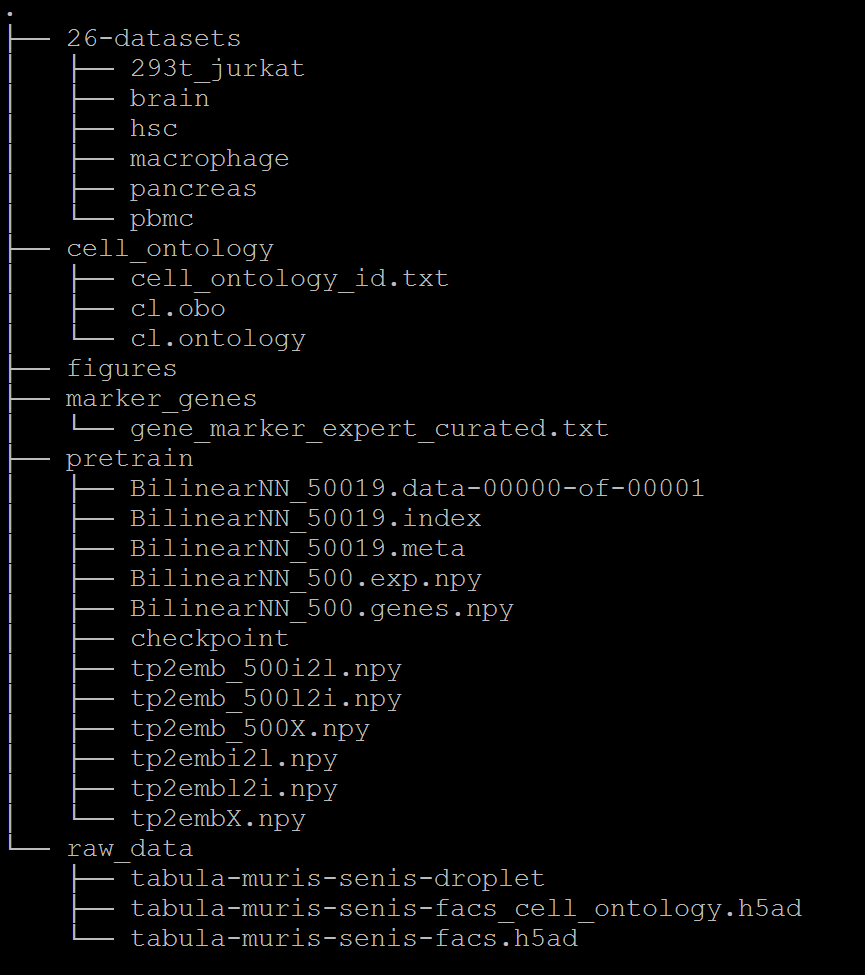
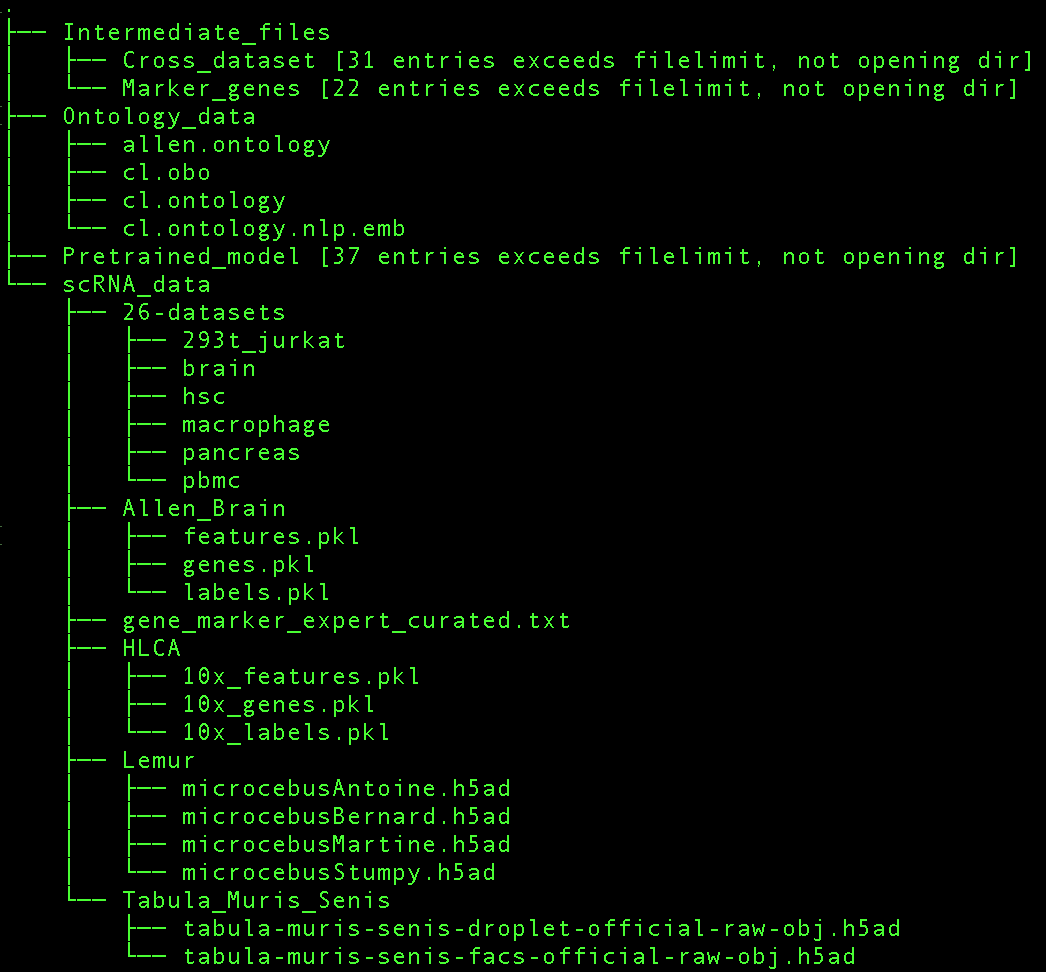
OnClass_doc

diff --git a/docs/source/datasets.rst b/docs/source/datasets.rst
@@ -14,41 +14,27 @@ The files in OnClass_data_public_all.tar.gz are:
 
 OnClass_data_public_minimal.tar.gz is the Ontology_data folder.
 
-
-Currently, we include:
-
-1) 26-datasets
+1) scRNA_data
 ~~~~~~~~~
 
-26-datasets obtained from Scanorama project.
+This includes all the single cell gene expression data used in our paper (see Fig. 2, Extended Data Figs. 1-3, Supplementary Figs. 4-7).
 
 
-2) cell_ontology
+2) Ontology_data
 ~~~~~~~~~
 
-The Cell Ontology file used in our analysis, which is downloaded from `OBO Foundry <http://www.obofoundry.org/ontology/cl.html>`__.
+This include Cell Ontology and Allen brain Ontology. Cell Ontology has cell type text definition. cl.ontology.nlp.emb is the text embedding of the definition of each cell type.
 
 
-3) figures
+3) Pretrained_model
 ~~~~~~~~~
 
-Reproduced figures in the paper using OnClass.
+8 tensorflow pretrained models trained from 8 dataset in Fig. 2, Extended Data Figs. 1-3, Supplementary Figs. 4-7.
 
 
-4) marker_genes
+4) Intermediate_files
 ~~~~~~~~~
 
-Marker genes for 2331 cell types identified by OnClass and curated by experts
+Intermediate files for some scripts in cross dataset prediction and marker genes identification. This can help reproduce results in our paper.
 
-5) pretrained model
-~~~~~~~~~
-
-cell type embedding and pretrain prediction model
-
-6) raw data
-~~~~~~~~~
-
-Gene expression data for FACS cells and droplet cells used in our analysis.
-
-
-For questions about the datasets, please contact Sheng Wang at swang91@stanford.edu.
+For questions about the datasets, please contact Sheng Wang at swang91@uw.edu.

diff --git a/docs/source/installation.rst b/docs/source/installation.rst
@@ -9,7 +9,7 @@ OnClass package only has three scripts: the `OnClass class file
 `the utility functions file
 <https://github.com/wangshenguiuc/OnClass/blob/master/OnClass/OnClass_utils.py>`__.
 
-So you can simply get these three files and put it in the right directory (see how to use `run_OnClass_example.py
+You can simply get these three files and put it in the right directory (see how to use `run_OnClass_example.py
 <https://github.com/wangshenguiuc/OnClass/blob/master/run_OnClass_example.py>`__ in Tutorial). You can also install OnClass using pip as following:
 
 
